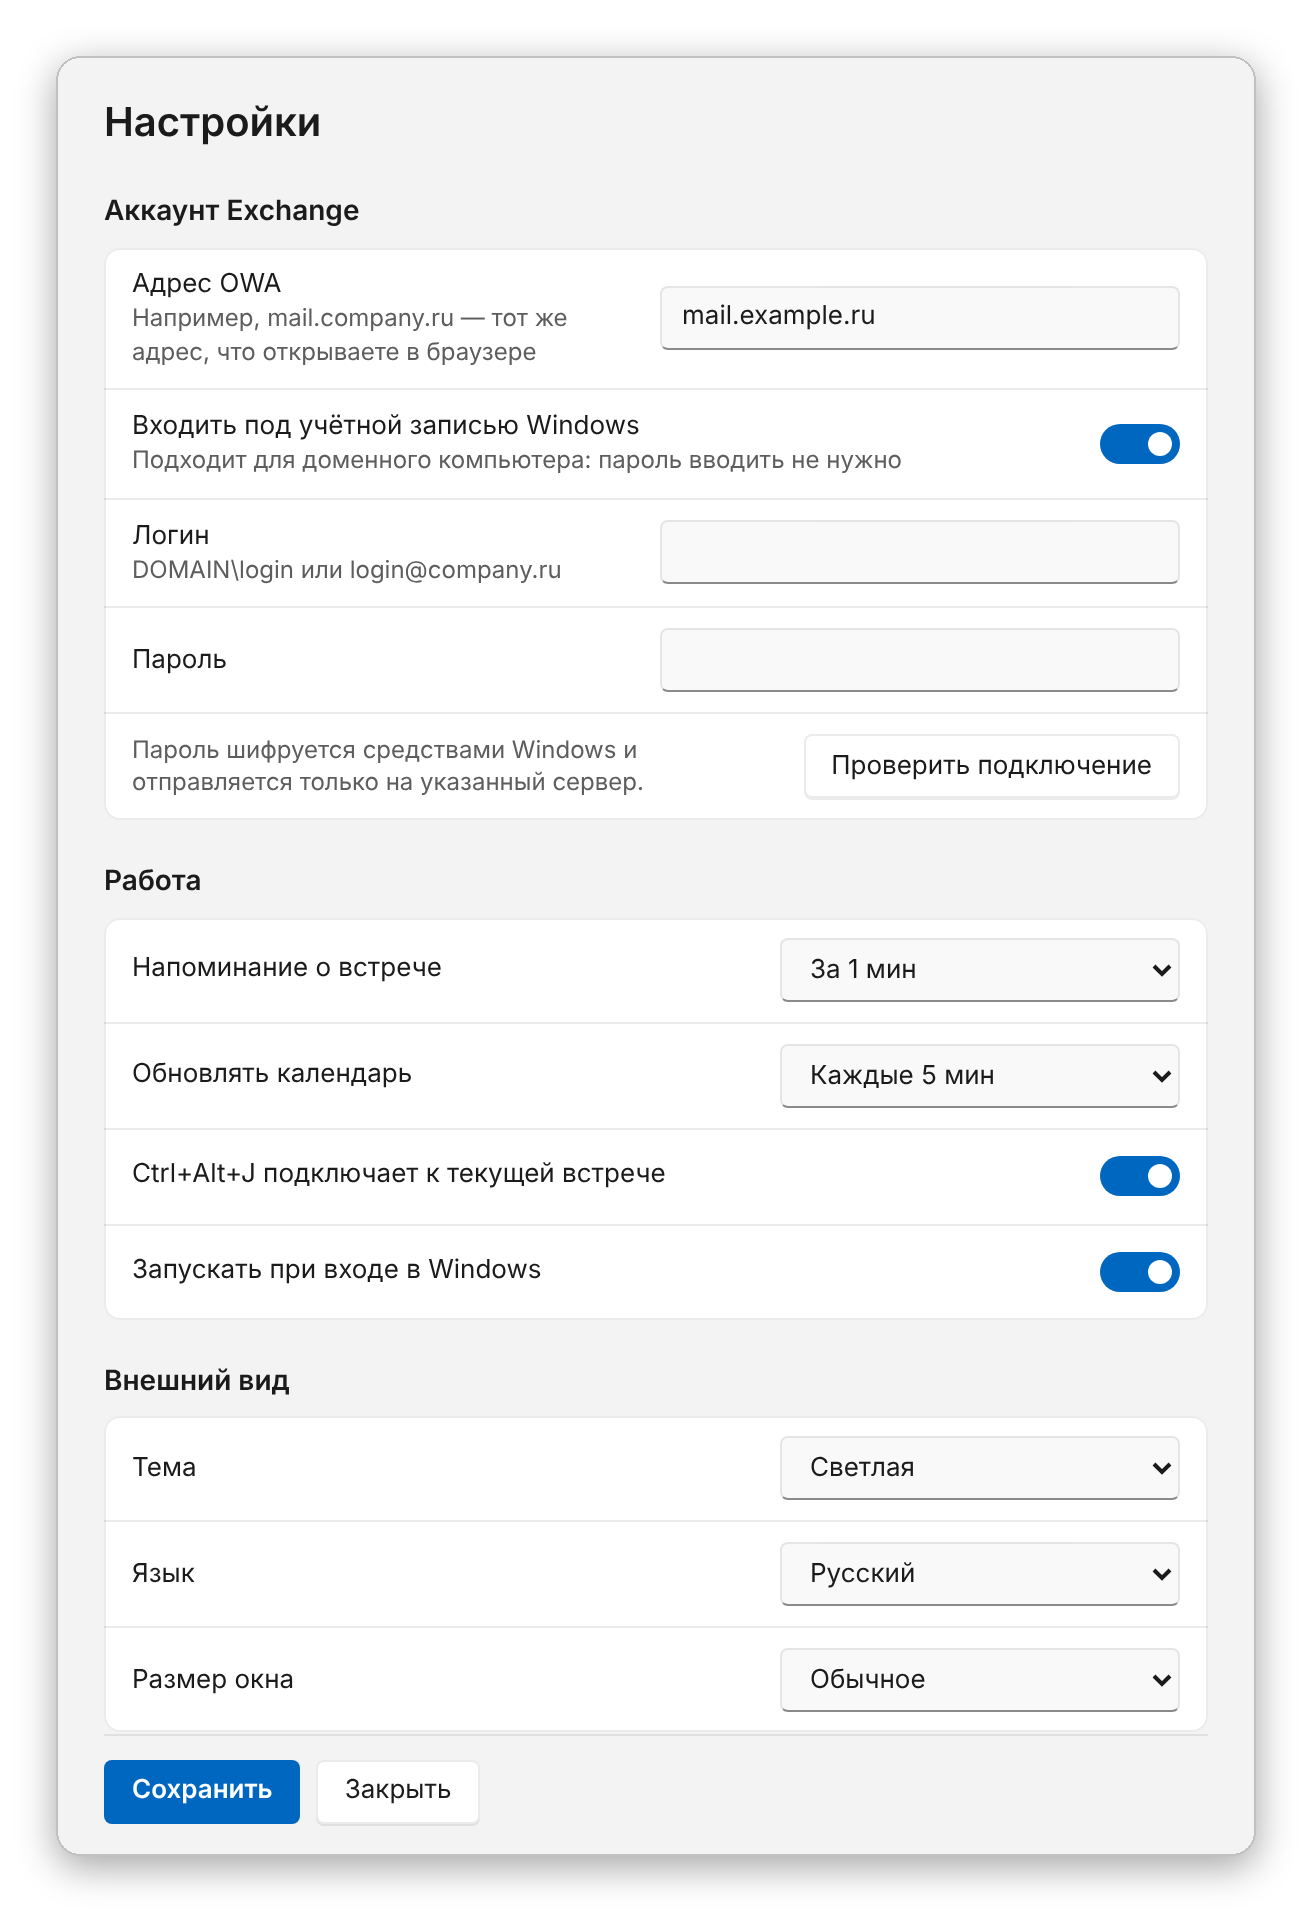
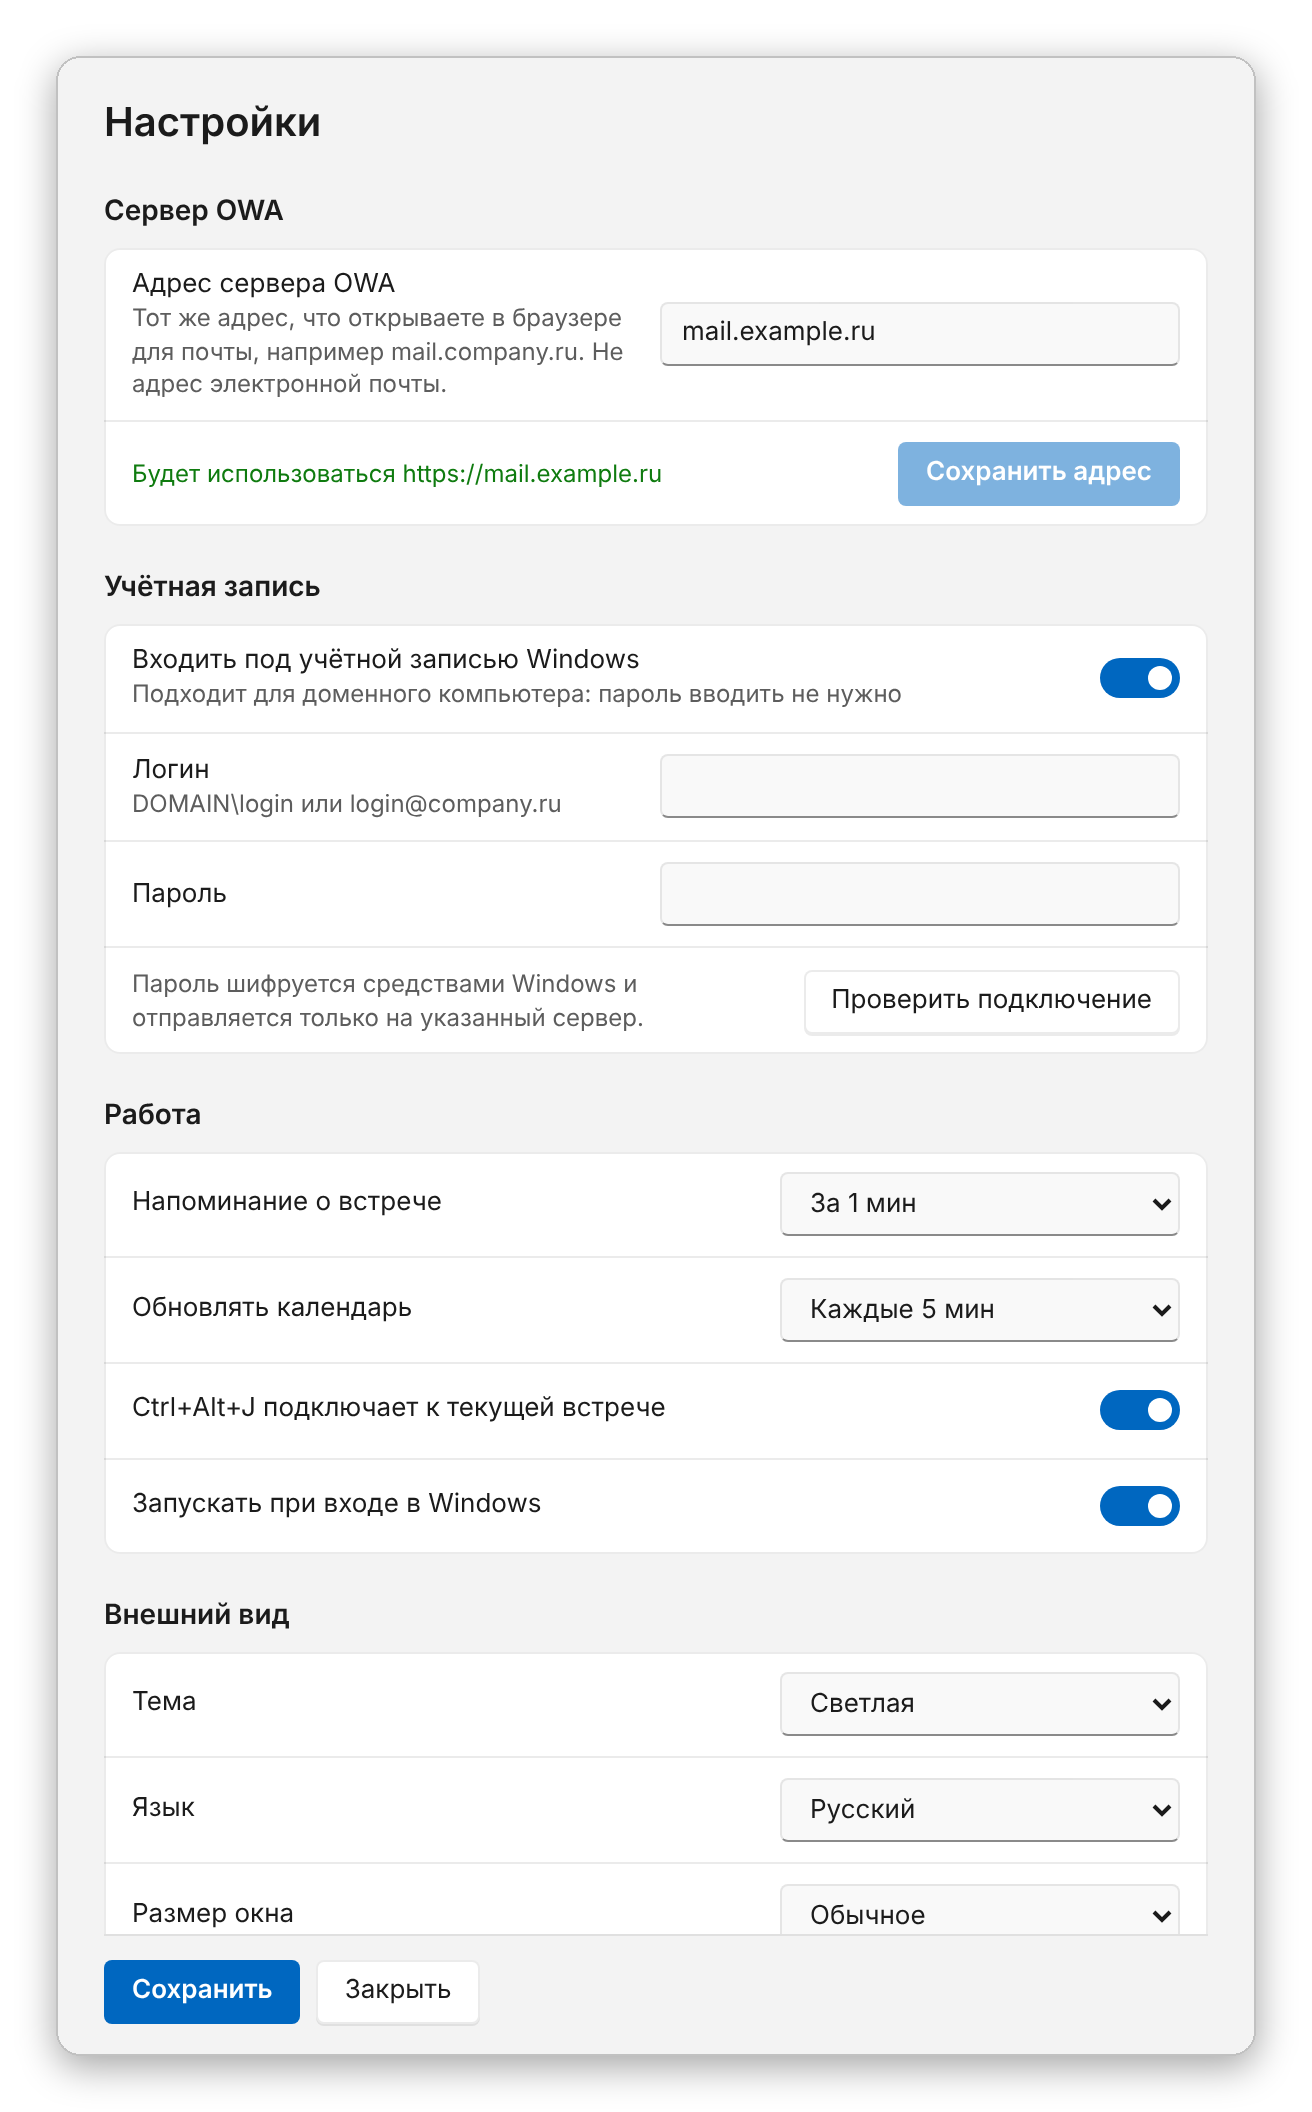
Settings: separate OWA server block with live address check and its own Save
The address field lives in its own section, shows what will be connected to (or why the value is not a server: e-mail address, http, bare word), and saves on its own. The main process refuses to store an address that cannot be connected to.

diff --git a/src/renderer/Settings.tsx b/src/renderer/Settings.tsx
@@ -2,6 +2,7 @@ import { useState } from 'react';
 import type { AppSettings, CertInfo, ConnectionTestResult, Snapshot } from '../shared/types';
 import { api } from './api';
 import { useI18n } from './hooks';
+import { checkServerUrl } from '../shared/serverUrl';
 
 function Switch({ checked, onChange, label }: { checked: boolean; onChange: (v: boolean) => void; label: string }) {
   return <button role="switch" aria-checked={checked} aria-label={label} className="switch" onClick={() => onChange(!checked)} />;
@@ -15,6 +16,8 @@ export function Settings({ snap }: { snap: Snapshot }) {
   const [test, setTest] = useState<ConnectionTestResult | null>(null);
   const [testing, setTesting] = useState(false);
   const [saved, setSaved] = useState(false);
+  const [serverSaved, setServerSaved] = useState(false);
+  const [saveError, setSaveError] = useState<string | null>(null);
 
   const acc = s.account;
   // The pin lives in the main process; show the live value, not the form's copy.
@@ -22,6 +25,8 @@ export function Settings({ snap }: { snap: Snapshot }) {
   const setAcc = (patch: Partial<AppSettings['account']>) => setS({ ...s, account: { ...acc, ...patch } });
   const update = () => ({ settings: s, password: clearPassword ? '' : password ? password : undefined });
   const needsLogin = !acc.useWindowsAuth;
+  const server = checkServerUrl(acc.serverUrl);
+  const serverChanged = acc.serverUrl.trim() !== snap.settings.account.serverUrl;
 
   async function runTest() {
     setTesting(true);
@@ -38,27 +43,78 @@ export function Settings({ snap }: { snap: Snapshot }) {
     setTest(null);
   }
 
-  async function save() {
-    await api.saveSettings(update());
+  async function save(what: 'all' | 'server' = 'all') {
+    setSaveError(null);
+    try {
+      await api.saveSettings(update());
+    } catch (e) {
+      setSaveError(e instanceof Error ? e.message : String(e));
+      return;
+    }
     setPassword('');
     setClearPassword(false);
-    setSaved(true);
-    setTimeout(() => setSaved(false), 2000);
+    if (what === 'server') {
+      setServerSaved(true);
+      setTimeout(() => setServerSaved(false), 3000);
+    } else {
+      setSaved(true);
+      setTimeout(() => setSaved(false), 2000);
+    }
   }
 
   return (
     <div className="settings">
       <h1>{t.settingsTitle}</h1>
 
-      <h2>{t.account}</h2>
+      <h2>{t.server}</h2>
       <div className="card">
         <div className="setting-row">
           <div className="label">
             <div>{t.serverUrl}</div>
             <div className="hint">{t.serverHint}</div>
           </div>
-          <input className="field" value={acc.serverUrl} placeholder="mail.company.ru" spellCheck={false} onChange={(e) => setAcc({ serverUrl: e.target.value })} />
+          <input
+            className={`field${acc.serverUrl && !server.ok ? ' bad' : ''}`}
+            value={acc.serverUrl}
+            placeholder="mail.company.ru"
+            spellCheck={false}
+            autoFocus={!snap.settings.account.serverUrl}
+            onChange={(e) => setAcc({ serverUrl: e.target.value })}
+            onKeyDown={(e) => e.key === 'Enter' && server.ok && void save('server')}
+          />
         </div>
+        <div className="setting-row">
+          <div className="label">
+            {server.ok ? (
+              <div className="msg ok" role="status">
+                {t.serverWillUse(server.url)}
+              </div>
+            ) : acc.serverUrl ? (
+              <div className="msg bad" role="alert">
+                {t.serverProblem[server.problem]}
+              </div>
+            ) : (
+              <div className="hint">{t.serverProblem.empty}</div>
+            )}
+            {serverSaved && (
+              <div className="msg ok" role="status">
+                {t.serverSaved}
+              </div>
+            )}
+            {saveError && (
+              <div className="msg bad" role="alert">
+                {saveError}
+              </div>
+            )}
+          </div>
+          <button className="btn primary" disabled={!server.ok || !serverChanged} onClick={() => void save('server')}>
+            {t.saveServer}
+          </button>
+        </div>
+      </div>
+
+      <h2>{t.account}</h2>
+      <div className="card">
         <div className="setting-row">
           <div className="label">
             <div>{t.windowsAuth}</div>
@@ -117,7 +173,7 @@ export function Settings({ snap }: { snap: Snapshot }) {
             )}
             {!test && <div className="hint">{t.privacyNote}</div>}
           </div>
-          <button className="btn" disabled={testing || !acc.serverUrl} onClick={() => void runTest()}>
+          <button className="btn" disabled={testing || !server.ok} onClick={() => void runTest()}>
             {testing ? t.testing : t.testConnection}
           </button>
         </div>

diff --git a/src/renderer/i18n.ts b/src/renderer/i18n.ts
@@ -69,9 +69,20 @@ const ru = {
   dismiss: 'Закрыть',
   // settings
   settingsTitle: 'Настройки',
-  account: 'Аккаунт Exchange',
-  serverUrl: 'Адрес OWA',
-  serverHint: 'Например, mail.company.ru — тот же адрес, что открываете в браузере',
+  server: 'Сервер OWA',
+  account: 'Учётная запись',
+  serverUrl: 'Адрес сервера OWA',
+  serverHint: 'Тот же адрес, что открываете в браузере для почты, например mail.company.ru. Не адрес электронной почты.',
+  serverWillUse: (url: string) => `Будет использоваться ${url}`,
+  serverProblem: {
+    empty: 'Укажите адрес сервера',
+    email: 'Это адрес почты, а не сервера. Нужен адрес Outlook Web App из адресной строки браузера, например mail.company.ru',
+    invalid: 'Некорректный адрес',
+    http: 'Нужен адрес с https:// — пароль не отправляется по незащищённому соединению',
+    bare: 'Укажите полное имя сервера, например mail.company.ru',
+  } as Record<string, string>,
+  saveServer: 'Сохранить адрес',
+  serverSaved: 'Адрес сохранён, календарь обновляется',
   windowsAuth: 'Входить под учётной записью Windows',
   windowsAuthHint: 'Подходит для доменного компьютера: пароль вводить не нужно',
   username: 'Логин',
@@ -185,9 +196,20 @@ const en: Dict = {
   snooze: 'Remind me in 5 minutes',
   dismiss: 'Dismiss',
   settingsTitle: 'Settings',
-  account: 'Exchange account',
-  serverUrl: 'OWA address',
-  serverHint: 'For example mail.company.com — the address you open in the browser',
+  server: 'OWA server',
+  account: 'Account',
+  serverUrl: 'OWA server address',
+  serverHint: 'The address you open in the browser for mail, for example mail.company.com. Not an e-mail address.',
+  serverWillUse: (url: string) => `Will connect to ${url}`,
+  serverProblem: {
+    empty: 'Enter the server address',
+    email: 'This is an e-mail address, not a server. Enter the Outlook Web App address from the browser address bar, for example mail.company.com',
+    invalid: 'Invalid address',
+    http: 'The address must use https:// — the password is never sent over a cleartext connection',
+    bare: 'Enter the full server name, for example mail.company.com',
+  },
+  saveServer: 'Save address',
+  serverSaved: 'Address saved, refreshing the calendar',
   windowsAuth: 'Sign in with my Windows account',
   windowsAuthHint: 'For domain-joined PCs: no password needed',
   username: 'Login',

diff --git a/src/shared/serverUrl.ts b/src/shared/serverUrl.ts
@@ -1,0 +1,37 @@
+// What the person typed as the server address → https://host. Shared by the settings page (live
+// hint under the field) and the main process (the only place that decides what is connected to).
+
+export type ServerUrlProblem = 'empty' | 'email' | 'invalid' | 'http' | 'bare';
+
+export type ServerUrlCheck = { ok: true; url: string; host: string } | { ok: false; problem: ServerUrlProblem; detail?: string };
+
+export function checkServerUrl(input: string): ServerUrlCheck {
+  let cleaned = input.trim();
+  if (!cleaned) return { ok: false, problem: 'empty' };
+  // "name@company.ru" is a mailbox, not a server: the host after "@" is usually the public web site.
+  if (cleaned.includes('@')) return { ok: false, problem: 'email' };
+  if (!/^https?:\/\//i.test(cleaned)) cleaned = `https://${cleaned}`;
+  let u: URL;
+  try {
+    u = new URL(cleaned);
+  } catch {
+    return { ok: false, problem: 'invalid' };
+  }
+  // Credentials never travel over cleartext HTTP.
+  if (u.protocol !== 'https:') return { ok: false, problem: 'http' };
+  if (!u.hostname.includes('.') && u.hostname !== 'localhost') return { ok: false, problem: 'bare', detail: u.hostname };
+  return { ok: true, url: `https://${u.host}`, host: u.hostname };
+}
+
+/** Wording for the main process, which speaks Russian in its errors. */
+export const SERVER_URL_MESSAGES_RU: Record<ServerUrlProblem, (detail?: string) => string> = {
+  empty: () => 'Укажите адрес сервера OWA',
+  email: () => 'Это адрес почты, а не сервера. Нужен адрес Outlook Web App из адресной строки браузера, например mail.company.ru',
+  invalid: () => 'Некорректный адрес сервера',
+  http: () => 'Нужен адрес с https://',
+  bare: (d) => `Адрес «${d}» не похож на имя сервера — укажите полное имя, например mail.company.ru`,
+};
+
+export function serverUrlError(check: ServerUrlCheck): string | undefined {
+  return check.ok ? undefined : SERVER_URL_MESSAGES_RU[check.problem](check.detail);
+}

diff --git a/src/main/owa/serverUrl.ts b/src/main/owa/serverUrl.ts
@@ -1,24 +1,9 @@
-// What the person typed as the server address → https://host. Free of Electron imports (unit-tested).
+// What the person typed as the server address → https://host (the shared check, as an OwaError).
+import { checkServerUrl, serverUrlError } from '../../shared/serverUrl';
 import { OwaError } from './errors';
 
 export function parseBaseUrl(input: string): string {
-  let cleaned = input.trim();
-  if (!cleaned) throw new OwaError('other', 'Укажите адрес сервера OWA');
-  // "name@company.ru" is a mailbox, not a server: the host after "@" is usually the public web site.
-  if (cleaned.includes('@')) {
-    throw new OwaError('other', 'Это адрес почты, а не сервера. Нужен адрес Outlook Web App из адресной строки браузера, например mail.company.ru');
-  }
-  if (!/^https?:\/\//i.test(cleaned)) cleaned = `https://${cleaned}`;
-  let u: URL;
-  try {
-    u = new URL(cleaned);
-  } catch {
-    throw new OwaError('other', 'Некорректный адрес сервера');
-  }
-  // Credentials never travel over cleartext HTTP.
-  if (u.protocol !== 'https:') throw new OwaError('other', 'Нужен адрес с https://');
-  if (!u.hostname.includes('.') && u.hostname !== 'localhost') {
-    throw new OwaError('other', `Адрес «${u.hostname}» не похож на имя сервера — укажите полное имя, например mail.company.ru`);
-  }
-  return `https://${u.host}`;
+  const check = checkServerUrl(input);
+  if (!check.ok) throw new OwaError('other', serverUrlError(check)!);
+  return check.url;
 }

diff --git a/src/main/calendarService.ts b/src/main/calendarService.ts
@@ -4,6 +4,7 @@ import type { AppSettings, CalendarEvent, CertInfo, ConnectionTestResult, EventD
 import { describeError, log } from './log';
 import { OwaClient } from './owa/client';
 import { OwaError } from './owa/http';
+import { checkServerUrl, serverUrlError } from '../shared/serverUrl';
 import { sanitizeUpdate } from '../shared/validate';
 import { demoDetails, demoEvents } from './demo';
 import { loadEventCache, loadPassword, loadSettings, saveEventCache, savePassword, saveSettings } from './store';
@@ -167,6 +168,11 @@ export class CalendarService extends EventEmitter {
     // Whatever the renderer sent is rebuilt field by field: types, enums and ranges are enforced here.
     // The certificate pin and hasPassword are copied from the current state, never from the page.
     const clean = sanitizeUpdate(update, prev);
+    if (clean.settings.account.serverUrl) {
+      const check = checkServerUrl(clean.settings.account.serverUrl);
+      if (!check.ok) throw new Error(serverUrlError(check));
+      clean.settings.account.serverUrl = check.url.replace(/^https:\/\//, '');
+    }
     let hasPassword = prev.account.hasPassword;
     if (clean.password !== undefined) hasPassword = savePassword(clean.password || undefined) && !!clean.password;
     this.settings = { ...clean.settings, account: { ...clean.settings.account, hasPassword } };

diff --git a/test/security.test.ts b/test/security.test.ts
@@ -109,14 +109,19 @@ describe('server address', () => {
   });
   it('refuses an e-mail address: the host after @ would be the public web site', async () => {
     const { parseBaseUrl } = await import('../src/main/owa/serverUrl');
+    const { checkServerUrl } = await import('../src/shared/serverUrl');
     expect(() => parseBaseUrl('ivanov@company.ru')).toThrow(/адрес почты/);
     expect(() => parseBaseUrl('https://user:pass@mail.company.ru')).toThrow(/адрес почты/);
+    expect(checkServerUrl('ivanov@company.ru')).toEqual({ ok: false, problem: 'email' });
   });
   it('refuses http and bare words', async () => {
     const { parseBaseUrl } = await import('../src/main/owa/serverUrl');
+    const { checkServerUrl } = await import('../src/shared/serverUrl');
     expect(() => parseBaseUrl('http://mail.company.ru')).toThrow(/https/);
     expect(() => parseBaseUrl('mail')).toThrow(/полное имя/);
     expect(() => parseBaseUrl('')).toThrow();
+    expect(checkServerUrl('mail')).toEqual({ ok: false, problem: 'bare', detail: 'mail' });
+    expect(checkServerUrl('')).toEqual({ ok: false, problem: 'empty' });
   });
 });
 

diff --git a/src/renderer/api.ts b/src/renderer/api.ts
@@ -26,7 +26,7 @@ function mockApi(): OwaApi {
     sync: { phase: 'ok', lastSuccess: new Date().toISOString() },
     settings,
     demo: true,
-    version: '0.1.2',
+    version: '0.1.3',
     taskbarLight: false,
     logPath: 'C:\\Users\\you\\AppData\\Roaming\\OWA Widget\\logs\\owa-widget.log',
   };

diff --git a/src/renderer/styles.css b/src/renderer/styles.css
@@ -731,6 +731,9 @@ svg.ico {
   outline: none;
   border-bottom: 2px solid var(--accent);
 }
+.field.bad {
+  border-bottom: 2px solid var(--danger);
+}
 select.field {
   width: 200px;
 }
